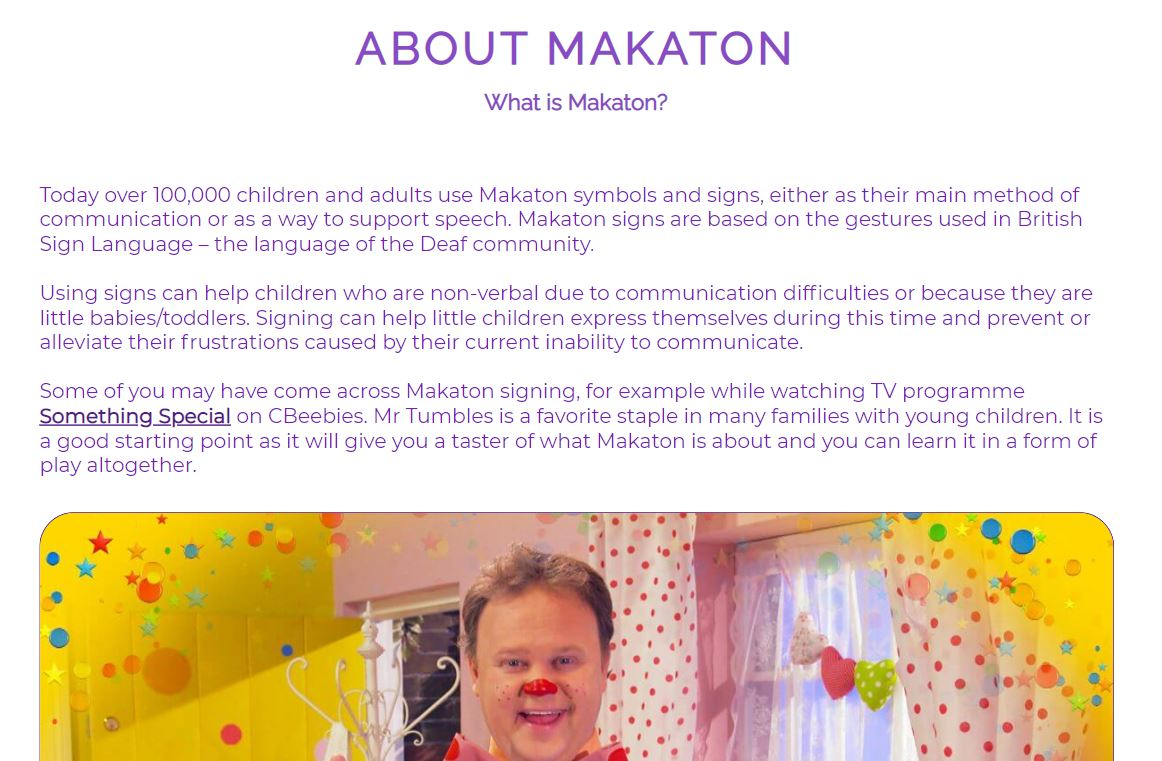
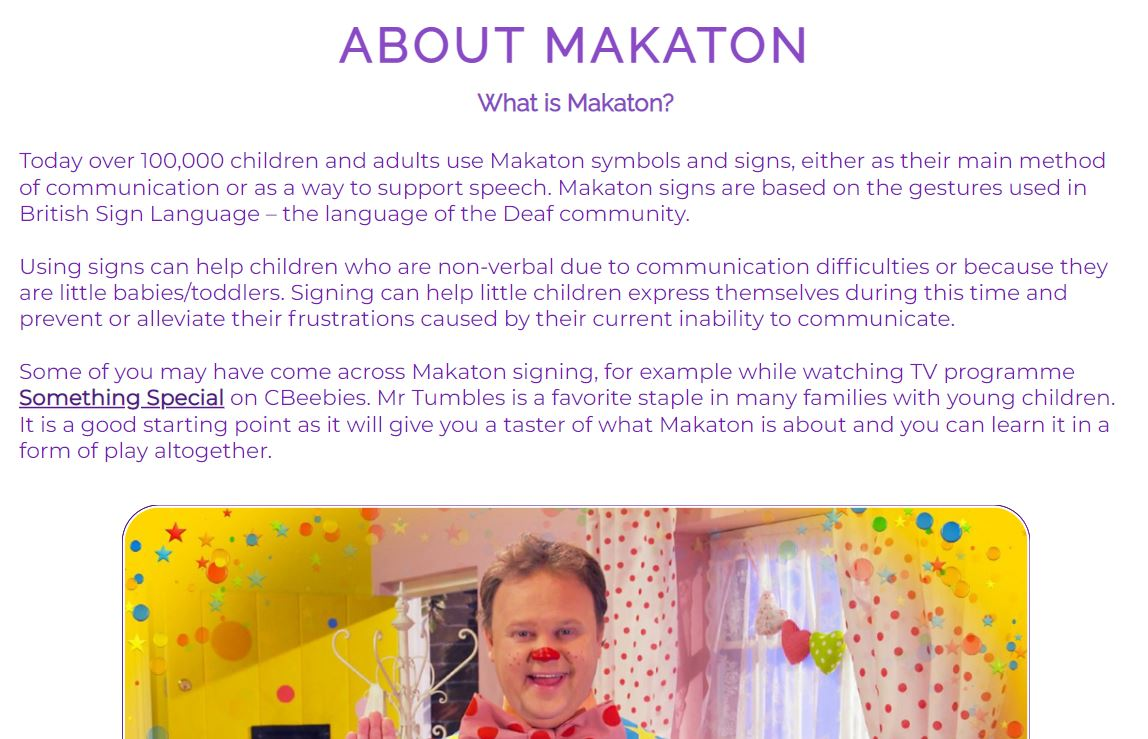
Resize body image in about.html and add new screenshots in readme file

diff --git a/assets/css/style.css b/assets/css/style.css
@@ -143,14 +143,15 @@ h2 {
 .body {
     text-align: center;
     padding-bottom: 35px;
-    padding-top: 15px;
+    padding-top: 20px;
 }
 
 .body img {
-    width: 100%;
+    width: 1200px;
     height: auto;
     border: 0.5px ridge #6d1abb;
     border-radius: 50px;
+    padding: 3px;
 }
 
 ol {
@@ -328,6 +329,12 @@ h2 i {
         font-size: 160%;
     }
 
+    .body img {
+        width: 800px;
+        height: 450px;
+        padding: 3.5px;
+    }
+
     ol {
         padding-bottom: 50px;
     }
@@ -406,6 +413,11 @@ h2 i {
 
     .text h2 {
         font-size: 130%;
+    }
+
+    .body img {
+        width: 650px;
+        height: 365px;
     }
 
     ol {
@@ -495,6 +507,11 @@ h2 i {
        
     .text {
         font-size: 100%;
+    }
+
+    .body img {
+        width: 450px;
+        height: 253px;
     }
 
     .text h2 {
@@ -612,6 +629,11 @@ h2 i {
         padding-top: 4px;
         padding-left: 10px;
         font-size: inherit;
+    }
+
+    .body img {
+        width: 300px;
+        height: 170px;
     }
 
     ol {

diff --git a/README.md b/README.md
@@ -113,7 +113,7 @@ I checked that the chosen colors and fonts are easy to read. All pages have pass
 - [Contrast checker - active class and hover selector](assets/wireframes/accessibility/Contrast_checker_active.PNG)
 ***
 - [Lighthouse report - Home page - mobile](assets/wireframes/accessibility/Lighthouse_mobile_report_home.PNG)
-- [Lighthouse report - About page - mobile](assets/wireframes/accessibility/Lighthouse_mobile_report_about.PNG)
+- [Lighthouse report - About page - mobile](assets/wireframes/accessibility/Lighthouse_desktop_report_about.JPG)
 - [Lighthouse report - Abc page - mobile](assets/wireframes/accessibility/Lighthouse_mobile_report_abc.PNG)
 - [Lighthouse report - Sign Up page - mobile](assets/wireframes/accessibility/Lighthouse_mobile_report_signup.PNG)
 ***
